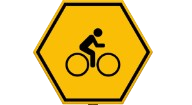
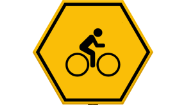
Mudei a placa de Transito das series finais e coloquei hiperlink para cada texo das series.

diff --git a/front-end/estrutura/inicio.html b/front-end/estrutura/inicio.html
@@ -27,22 +27,22 @@
             <div class="fundo_vermelho">
                 <img class="placas" src="../imagens/pare.png" >
                 <div class="series_branco_vermelho">
-                    <p>Séries iniciais</p>
-                    <p>(1º ao 5º ano)</p>
+                    <a class="textos_branco" href="../estrutura/series_iniciais.html">Séries iniciais</a>
+                    <a class="textos_branco" href="../estrutura/series_iniciais.html">(1º ao 5º ano)</a>
                 </div> 
             </div>
             <div class="fundo_amarelo">
-                <img id="placa_ciclista" src="../imagens/Placa-A-30B-Passagem-sinalizada-de-ciclistas.png"><!--Imagem mal recortada-->
+                <img id="placa_ciclista" src="../imagens/placa_ciclista.png"><!--Imagem mal recortada-->
                 <div class="series_branco_amarelo">
-                    <p>Séries finais</p>
-                    <p>(6º ao 9º ano)</p>
+                    <a class="textos_preto" href="../estrutura/serie_finais.html">Séries finais</a>
+                    <a class="textos_preto" href="../estrutura/serie_finais.html">(6º ao 9º ano)</a>
                 </div> 
             </div>
             <div class="fundo_verde">
                 <img class="placa_voce_esta_no_eptran" src="../imagens/VOCÊ ESTÁ NO EPTRAN (1).png"> <!--Imagem mal recortada-->
                 <div class="series_branco">
-                    <p>Ensino Médio</p>
-                    <p>(1º ao 3º ano) </p>
+                    <a class="textos_branco" href="../estrutura/ensino_medio.html">Ensino Médio</a>
+                    <a class="textos_branco" href="../estrutura/ensino_medio.html">(1º ao 3º ano) </a>
                 </div> 
             </div>
             <footer class="rodape">

diff --git a/front-end/style/style.css b/front-end/style/style.css
@@ -510,37 +510,54 @@ body{
     position: relative;
     bottom: 10px;
 }
-.series_branco{
-    text-align: center;
-    color: white;
-    padding-left: 60px;
-    padding-top: 10px;
+.textos_preto{
+    text-decoration: none;
+    color: black;
     font-family: kanit;
 }
+.textos_branco{
+    text-decoration: none;
+    color: white;
+    font-family: kanit;
+}
+.series_branco{
+    text-align: center;
+    padding-left: 65px;
+    color: white;
+    font-family: kanit;
+    display: flex;
+    flex-direction: column;
+    align-content: space-around;
+    justify-content: center;
+}
 #placa_ciclista{
-    height: 200px;
+    height: 140px;
     width: auto;
     position: relative;
-    bottom: 40px;
-    padding-left: 30px;
+    bottom: 10px;
+    padding-left: 10px;
 }
 .series_branco_vermelho{
     text-align: center;
+    padding-left: 85px;
     color: white;
-    padding-left: 60px;
-    padding-top: 8px;
-    padding-left: 88px;
     font-family: kanit;
+    display: flex;
+    flex-direction: column;
+    align-content: space-around;
+    justify-content: center;
+
 }
 .series_branco_amarelo{
     text-align: center;
-    color: white;
-    padding-left: 60px;
-    padding-top: 8px;
-    padding-left: 55px;
+    padding-left: 20px;
     color: black;
-    font-weight: bold;
     font-family: kanit;
+    display: flex;
+    flex-direction: column;
+    align-content: space-around;
+    justify-content: center;
+    font-weight: bold;
 }
 .placa_voce_esta_no_eptran{
     height: 140px;
